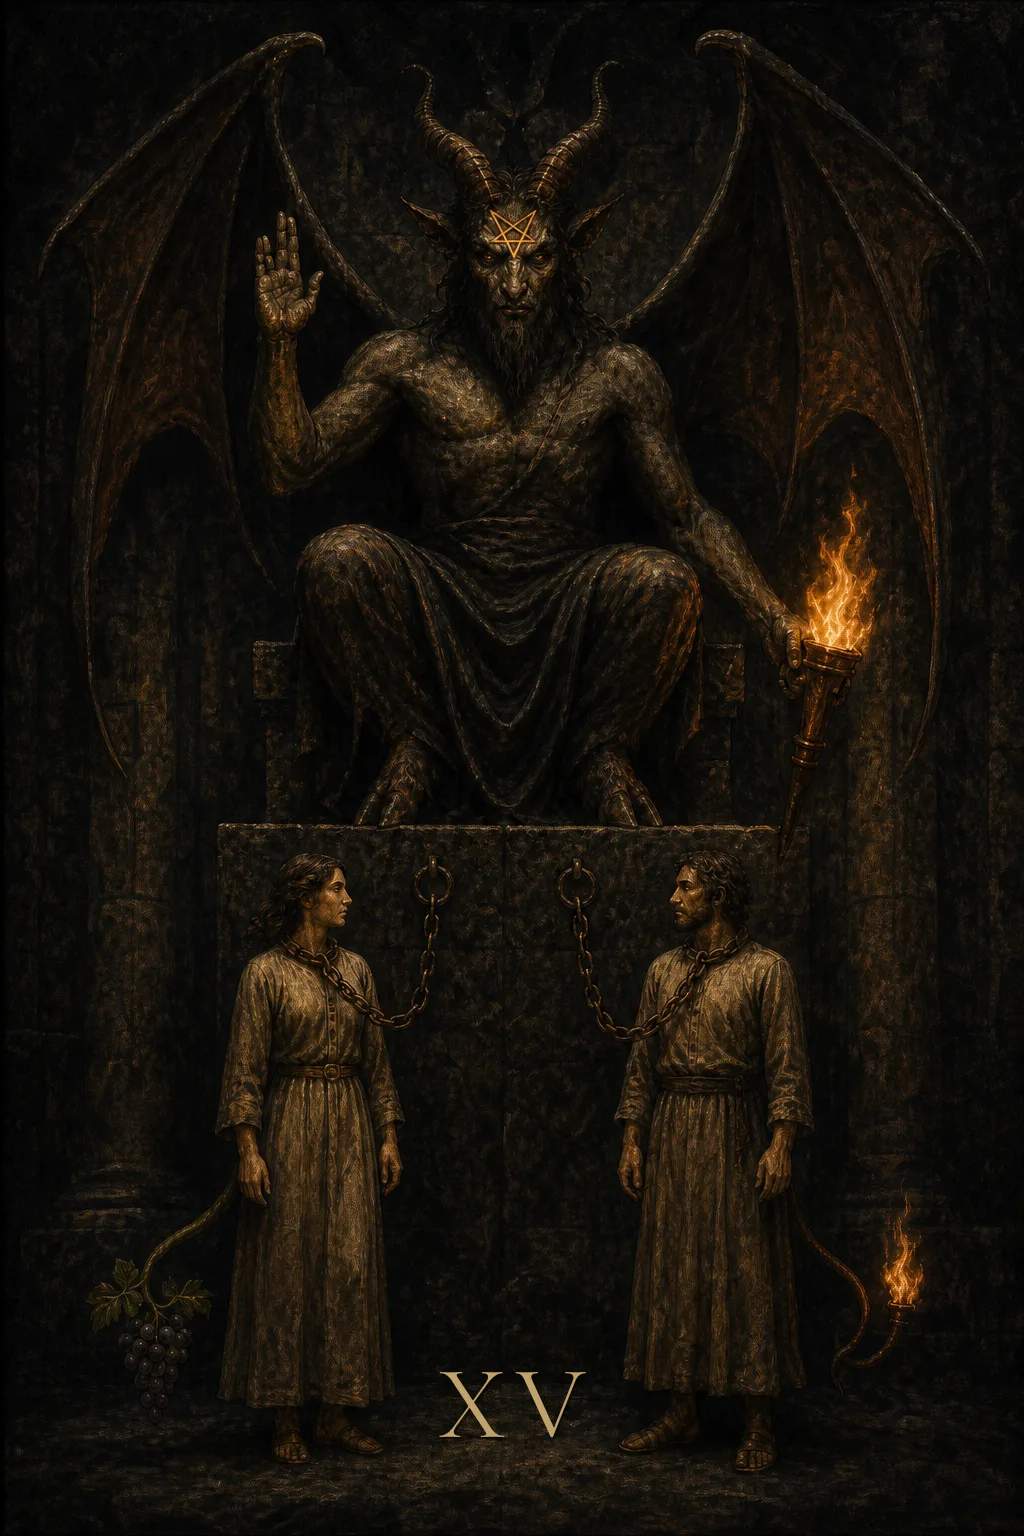
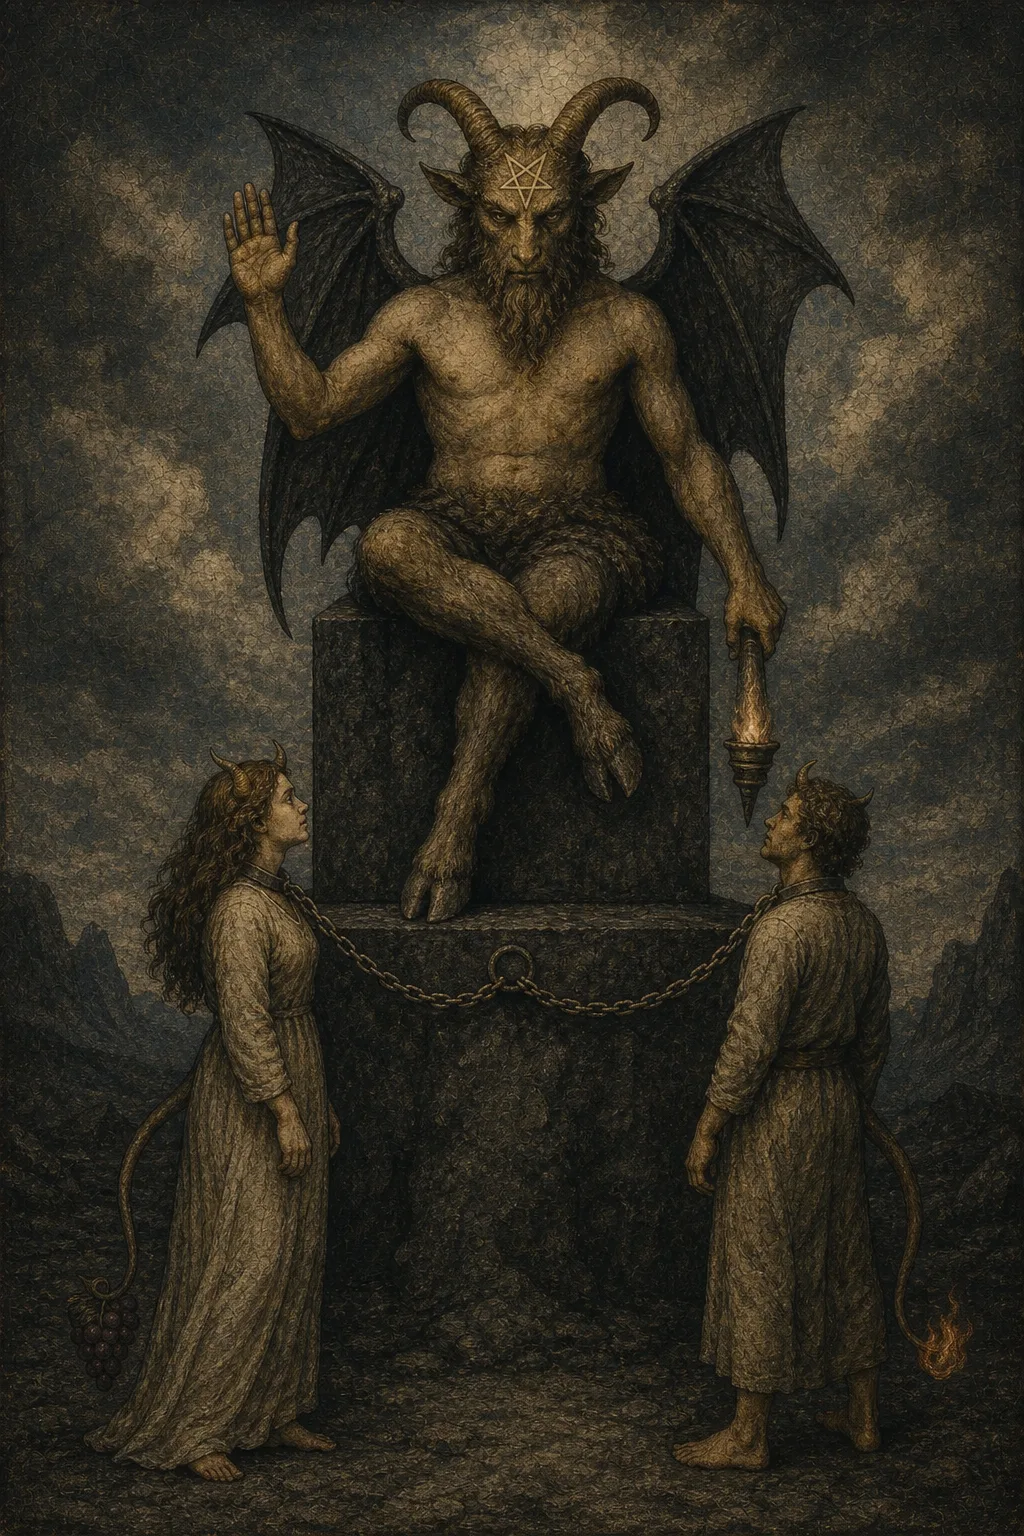
feat: refresh five major arcana artworks

diff --git a/public/assets/cards.js b/public/assets/cards.js
@@ -1177,7 +1177,7 @@ export const TAROT_CARDS = [
     streetName: 'Подсел',
     streetText: 'Смотри что тебя держит. Это не клетка — ты сам её не открываешь.',
     visualHint: 'козёл, цепи, огонь, фигуры в плену',
-    image: 'assets/cards/devil.webp',
+    image: 'assets/cards/devil.webp?v=20260826-xix',
     num: 'XV',
     symbol: '▼',
     result: {
@@ -1252,7 +1252,7 @@ export const TAROT_CARDS = [
     streetName: 'Разнос',
     streetText: 'Щас всё посыпется, готовься. Не паникуй — соберёшь по кускам.',
     visualHint: 'молния, падающие фигуры, трещины, хаос',
-    image: 'assets/cards/tower.webp',
+    image: 'assets/cards/tower.webp?v=20260826-xix',
     num: 'XVI',
     symbol: '⚡',
     result: {
@@ -1330,7 +1330,7 @@ export const TAROT_CARDS = [
     streetName: 'Всё норм',
     streetText: 'Выдохни. Всё реально норм — ты просто слишком накручиваешь.',
     visualHint: 'большая звезда, фигура у воды, спокойная ночь',
-    image: 'assets/cards/star.webp?v=20260717',
+    image: 'assets/cards/star.webp?v=20260826-xix',
     num: 'XVII',
     symbol: '★',
     result: {
@@ -1408,7 +1408,7 @@ export const TAROT_CARDS = [
     streetName: 'Паранойка',
     streetText: 'Ты себе уже нарисовал страшную картину. Скорее всего всё проще — проверь.',
     visualHint: 'луна с человеческим профилем, две башни, дорога между ними, домашняя собака слева, дикий волк справа, один рак выходит из воды',
-    image: 'assets/cards/moon.webp?v=20260720',
+    image: 'assets/cards/moon.webp?v=20260826-xix',
     num: 'XVIII',
     symbol: '◯',
     result: {
@@ -1486,7 +1486,7 @@ export const TAROT_CARDS = [
     streetName: 'Огонь',
     streetText: 'Сегодня просто горишь. Не туши — действуй.',
     visualHint: 'яркое солнце, ребёнок, лошадь, подсолнухи',
-    image: 'assets/cards/sun.webp?v=20260722',
+    image: 'assets/cards/sun.webp?v=20260826-xix',
     num: 'XIX',
     symbol: '☀',
     result: {

diff --git a/public/ritual/index.html b/public/ritual/index.html
@@ -63,8 +63,8 @@
     <link rel="stylesheet" href="/assets/fonts.css" />
     <link rel="preload" as="image" href="/assets/3d/mora-card-back.webp" fetchpriority="high" />
     <link rel="preload" as="fetch" href="/assets/3d/mora-card.glb?v=20260821-stripface1" type="model/gltf-binary" crossorigin fetchpriority="high" />
-    <link rel="modulepreload" href="./app.js?v=20260826-xiv" />
-    <link rel="modulepreload" href="/assets/cards.js?v=20260826-xiv" />
+    <link rel="modulepreload" href="./app.js?v=20260826-xix" />
+    <link rel="modulepreload" href="/assets/cards.js?v=20260826-xix" />
     <link rel="modulepreload" href="./daily-3d.js?v=20260825-cardmatch2" />
     <link rel="modulepreload" href="./spread-deck-3d.js?v=20260825-cardmatch2" />
     <link rel="modulepreload" href="/vendor/three/0.180.0/build/three.module.js" />
@@ -467,6 +467,6 @@
       </div>
     </section>
 
-    <script type="module" src="./app.js?v=20260826-xiv"></script>
+    <script type="module" src="./app.js?v=20260826-xix"></script>
   </body>
 </html>

diff --git a/public/ritual/app.js b/public/ritual/app.js
@@ -1,4 +1,4 @@
-import { TAROT_CARDS } from "/assets/cards.js?v=20260826-xiv";
+import { TAROT_CARDS } from "/assets/cards.js?v=20260826-xix";
 import { mountDailyDeck3D } from "./daily-3d.js?v=20260825-cardmatch2";
 import { mountSpreadDeck3D } from "./spread-deck-3d.js?v=20260825-cardmatch2";
 

diff --git a/docs/decisions.md b/docs/decisions.md
@@ -6,6 +6,14 @@
 
 ---
 
+## 2026-08-26 — Четвёртая пятёрка Старших арканов интегрирована по общему аппруву автора
+
+**Что:** `devil`, `tower`, `star`, `moon` и `sun` заменены approved-final clean artwork в canonical `public/assets/cards/*.webp`. Все пять имеют `1024×1536`, закодированы `cwebp -q 82` и весят `331–411 KB`; ID, тексты, CSS, GLB и flow не менялись. Первая генерация `star` была отклонена агентом из-за шести малых звёзд вместо семи и неясного количества наземных струй; в production вошла исправленная версия с одной большой и семью малыми звёздами. Из-за safety-ограничения генератора каноническая нагота в `devil` и `star` заменена сдержанной старинной драпировкой без изменения смысловой композиции. Для партии добавлен cache-bust `20260826-xix`.
+
+**Почему:** Автор единым явным сообщением утвердил все пять показанных финальных кандидатов. Общий master-spec `world + judgement`, точные RWS-объекты и правило artwork без встроенных номеров сохранены; production заменяется только после визуального аппрува.
+
+**Кто:** автор + агент.
+
 ## 2026-08-26 — Третья пятёрка Старших арканов интегрирована по per-card approval
 
 **Что:** `wheel`, `justice`, `hanged-man`, `death` и `temperance` заменены approved-final artwork в canonical `public/assets/cards/*.webp`. Все пять имеют `1024×1536`, закодированы `cwebp -q 82` и весят `245–434 KB`; ID, тексты, CSS, GLB и flow не менялись. Первый `justice` отклонён из-за доминирующей красной палитры, первый `temperance` — из-за физически неверной струи воды; в production вошли исправленные варианты. Для партии добавлен cache-bust `20260826-xiv`.
